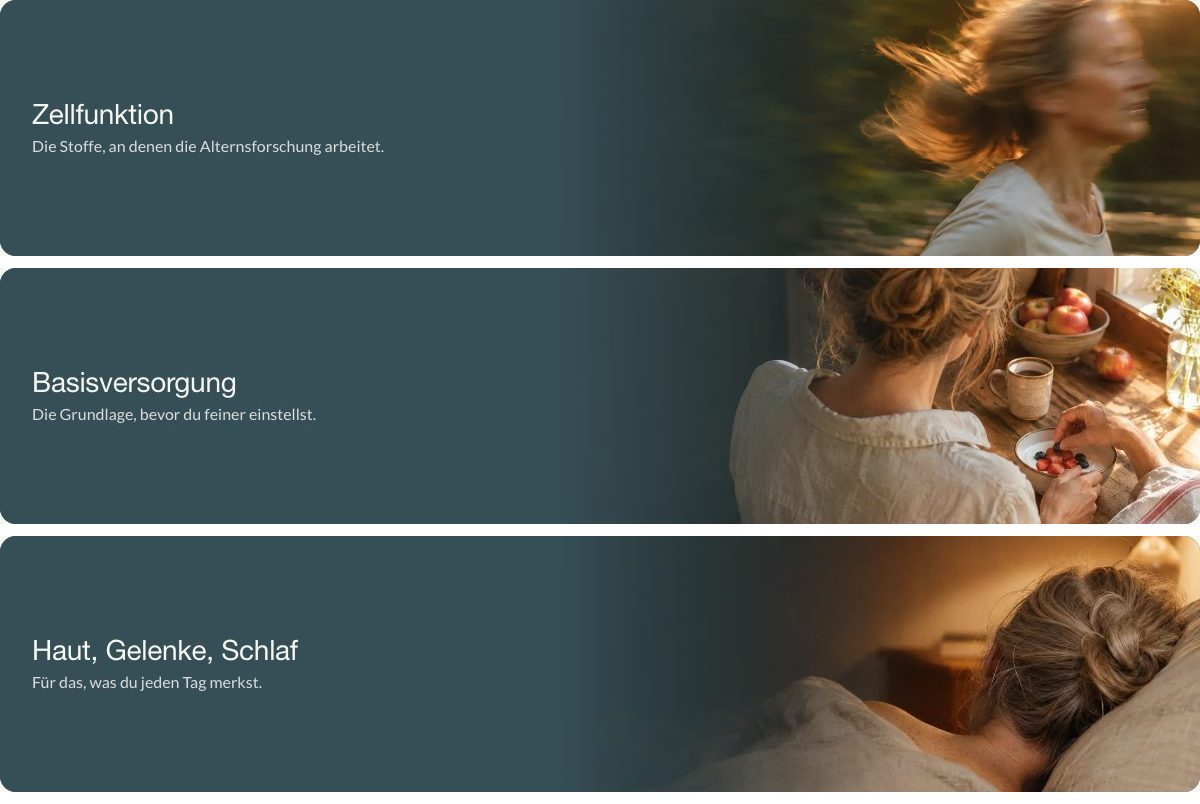
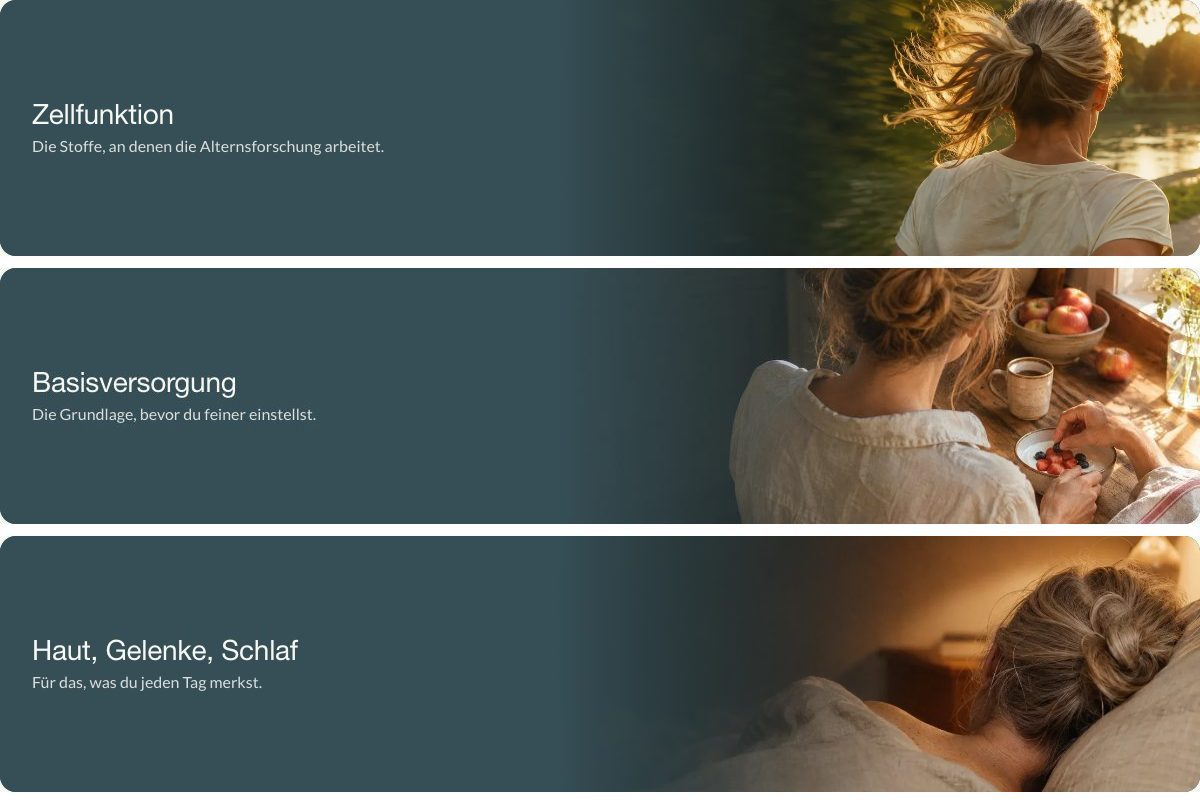
docs(bildwelt): Laufbild in zweiter Fassung, von hinten und ohne verwischtes Gesicht
lt-kat-zellfunktion-2 ersetzt die erste Fassung im Patch und im Vorschau-Theme (BJ 16.11.).

Changed region(s): [[0.6783, 0.0, 1.0, 0.342]]

diff --git a/docs/bildwelt-2026-11-16/templates-patch.py b/docs/bildwelt-2026-11-16/templates-patch.py
@@ -36,9 +36,9 @@ hero.update({
     "padding_top": 0,
 })
 gruppen = {  # Motive vom 16.11.2026 (ChatGPT, Projekt ki-bilder), Querformat 3:2, Motiv rechts
-    "grp_zellfunktion": ("lt-kat-zellfunktion.webp", "Die Stoffe, an denen die Alternsforschung arbeitet.", "60% 14%"),
-    # Küche und Schlaf in zweiter Fassung: scharf, Person von hinten. Verwischte Gesichter wirken
-    # in ruhigen Szenen unheimlich (BJ 16.11.), Unschärfe bleibt dem Sport vorbehalten.
+    # Alle drei in zweiter Fassung (BJ 16.11.): kein Gesicht im Bild, auch kein verwischtes, die
+    # Person ist von hinten zu sehen. Unschärfe nur noch im Hintergrund des Laufbilds.
+    "grp_zellfunktion": ("lt-kat-zellfunktion-2.webp", "Die Stoffe, an denen die Alternsforschung arbeitet.", "75% 12%"),
     "grp_basis": ("lt-kat-basis-2.webp", "Die Grundlage, bevor du feiner einstellst.", "70% 45%"),
     "grp_alltag": ("lt-kat-alltag-2.webp", "Für das, was du jeden Tag merkst.", "80% 30%"),
 }

diff --git a/docs/bildwelt-2026-11-16/README.md b/docs/bildwelt-2026-11-16/README.md
@@ -48,17 +48,17 @@ Originale in `lifetime-mockups/ki-bilder/`, Prompts in `lifetime-mockups/lifesty
 
 | Stelle | Datei | Format |
 |---|---|---|
-| Katalog, Band Zellfunktion | `lt-kat-zellfunktion.webp` | 1536 × 1024 |
+| Katalog, Band Zellfunktion | `lt-kat-zellfunktion-2.webp` | 1536 × 1024 |
 | Katalog, Band Basisversorgung | `lt-kat-basis-2.webp` | 1536 × 1024 |
 | Katalog, Band Haut, Gelenke, Schlaf | `lt-kat-alltag-2.webp` | 1536 × 1024 |
 | NMN-PDP, Leiste (verwischt) und Bildkarte „Der Rohstoff“ (scharf) | `lt-nmn-stillleben.webp` | 1774 × 887 |
 
 Für weitere Bänder gilt dieselbe Bestellung: Querformat 3:2, Motiv in der rechten Bildhälfte,
 das linke Drittel ruhig und dunkel. Hochformate taugen dafür nicht, es bleibt nur ein Streifen
-Oberkörper. **Bewegungsunschärfe nur bei Sport** (BJ 16.11.): Die ersten Fassungen von Küche und
-Schlaf hatten verwischte Gesichter und wirkten unheimlich (`lt-kat-basis.webp`, `lt-kat-alltag.webp`,
-ungenutzt in den Shopify-Dateien). In ruhigen Szenen ist das Bild scharf und die Person von hinten
-zu sehen. Auf der NMN-PDP keine Menschen, keine Hände, keine Einnahme-Requisiten (Wasserglas,
+Oberkörper. **Kein verwischtes Gesicht** (BJ 16.11.): Die ersten Fassungen hatten verwischte
+Gesichter und wirkten in Küche und Bett unheimlich (`lt-kat-zellfunktion.webp`, `lt-kat-basis.webp`,
+`lt-kat-alltag.webp`, ungenutzt in den Shopify-Dateien). Jetzt ist in allen drei Bändern die Person
+von hinten zu sehen, das Bild ist scharf, und nur im Laufbild ist der Hintergrund bewegungsunscharf. Auf der NMN-PDP keine Menschen, keine Hände, keine Einnahme-Requisiten (Wasserglas,
 Löffel).
 
 ## Noch nicht gebaut (Reihenfolge aus dem Konzept)
